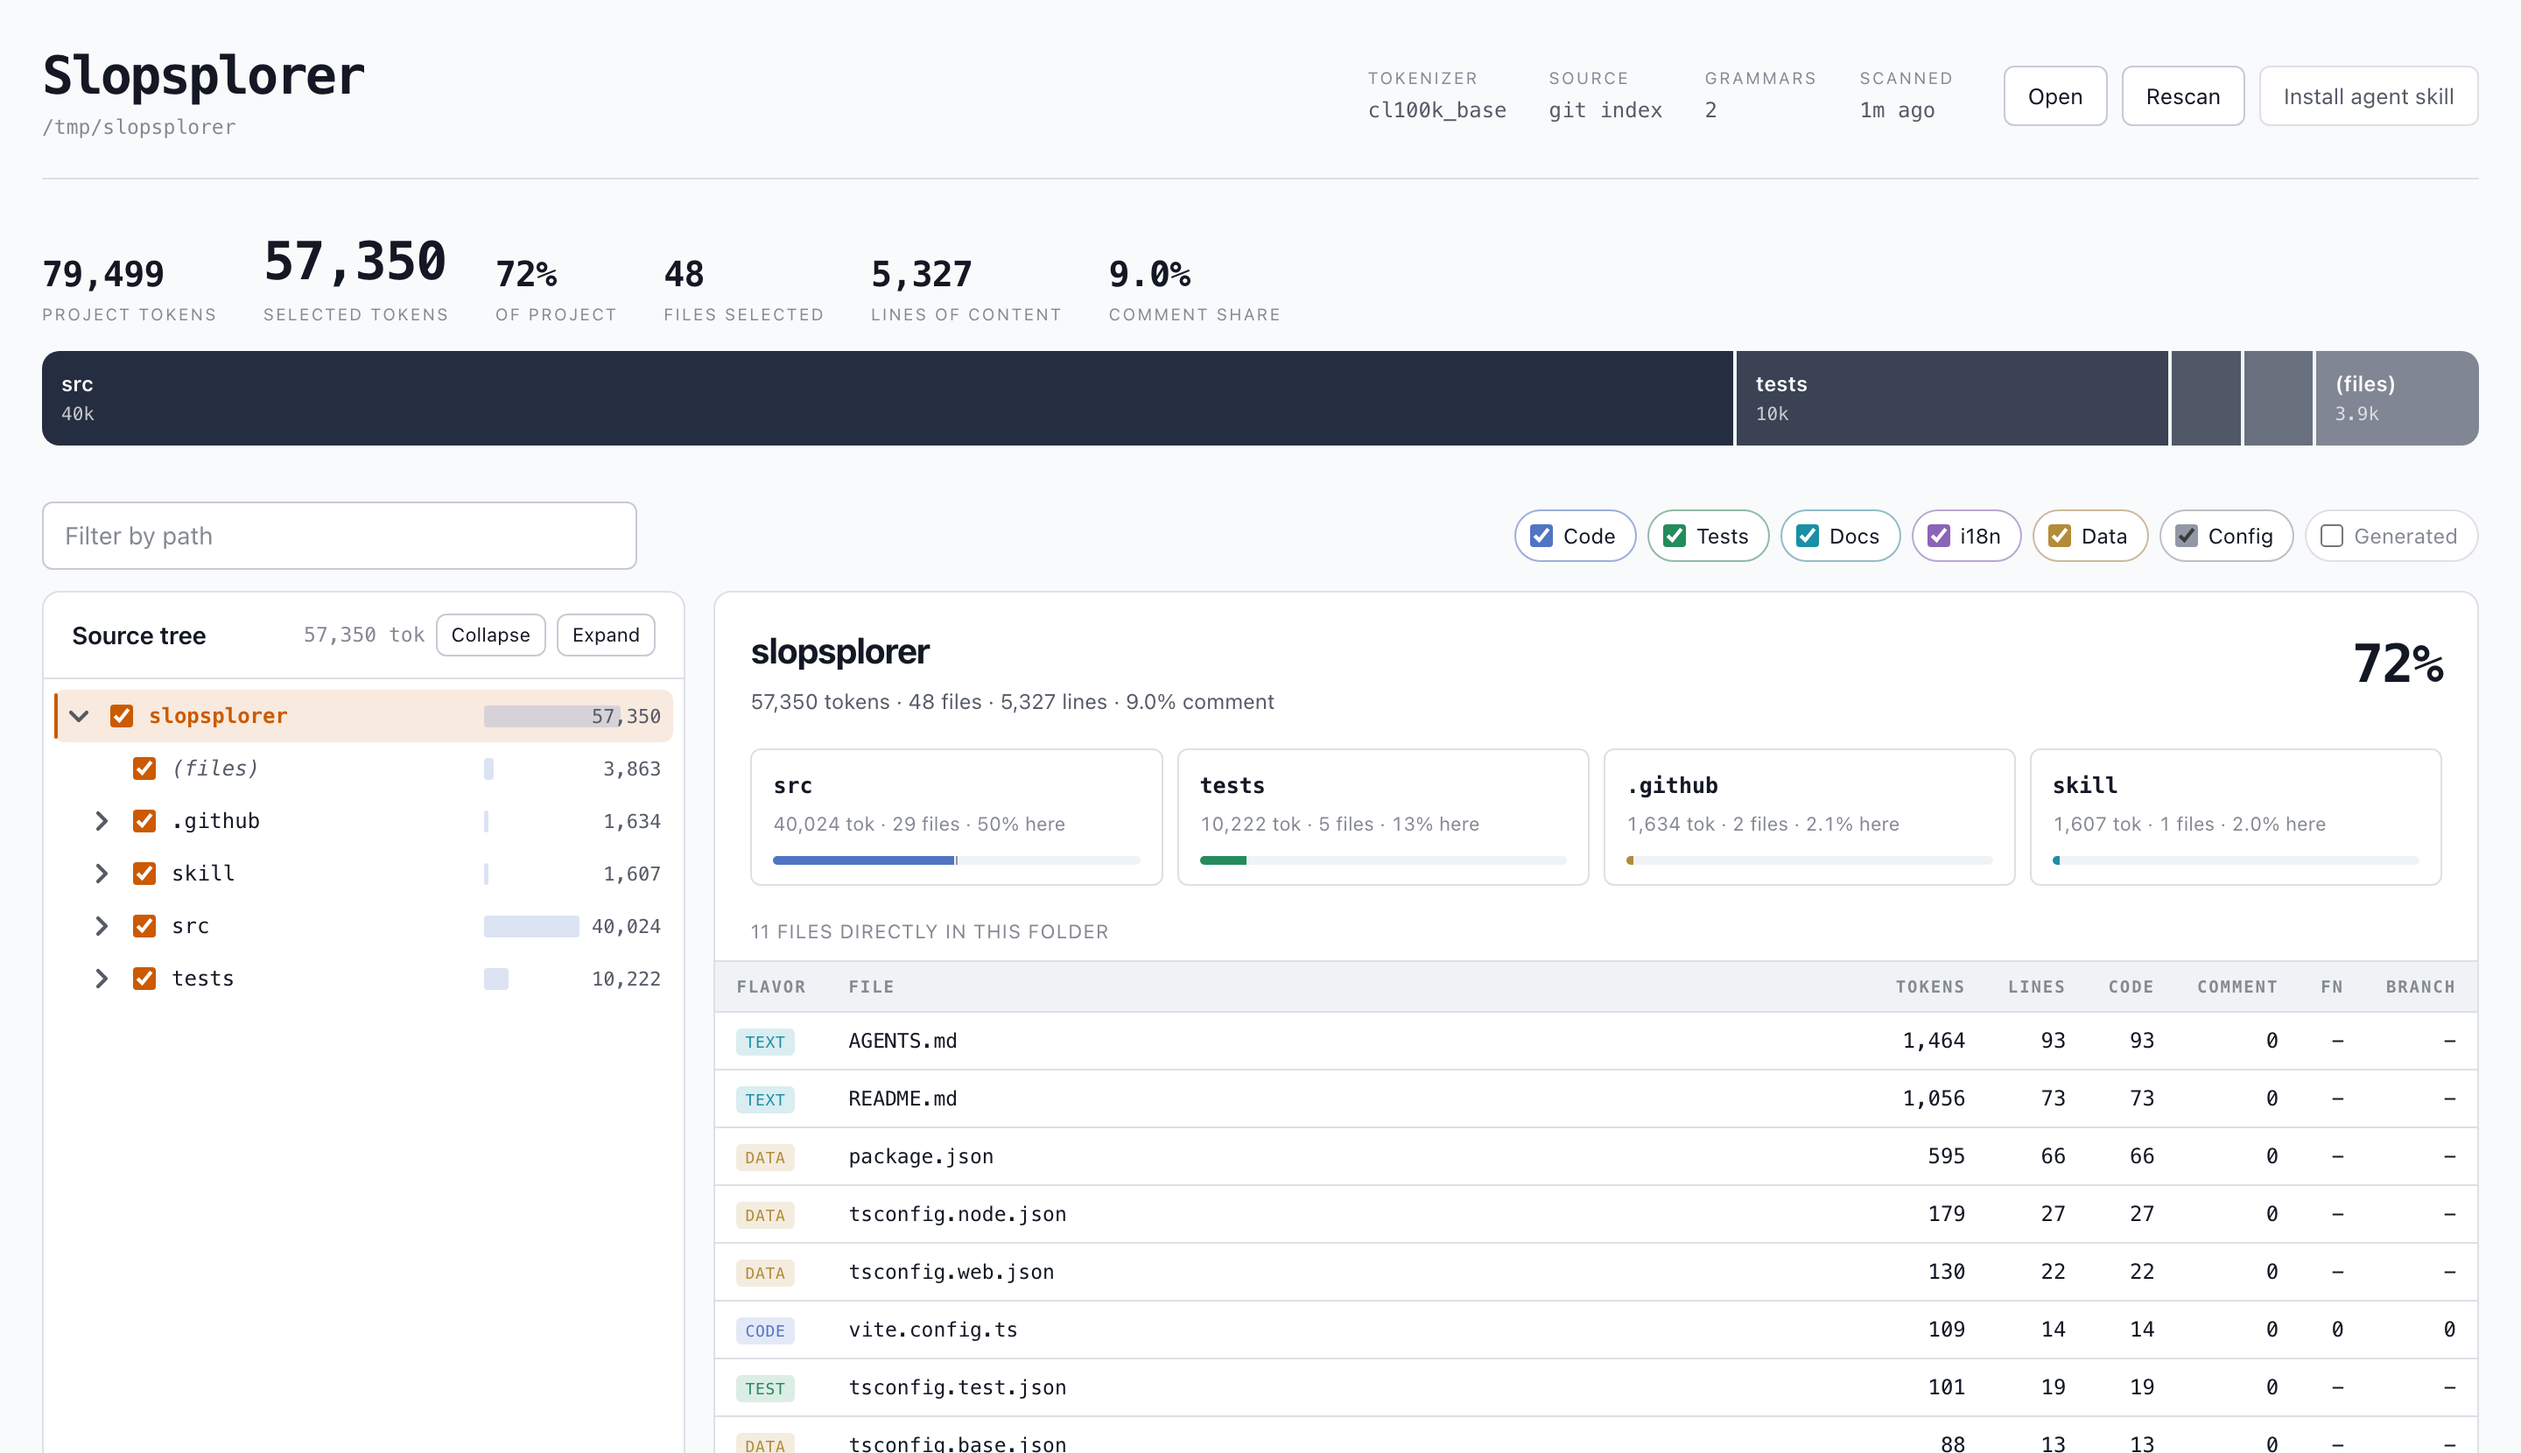
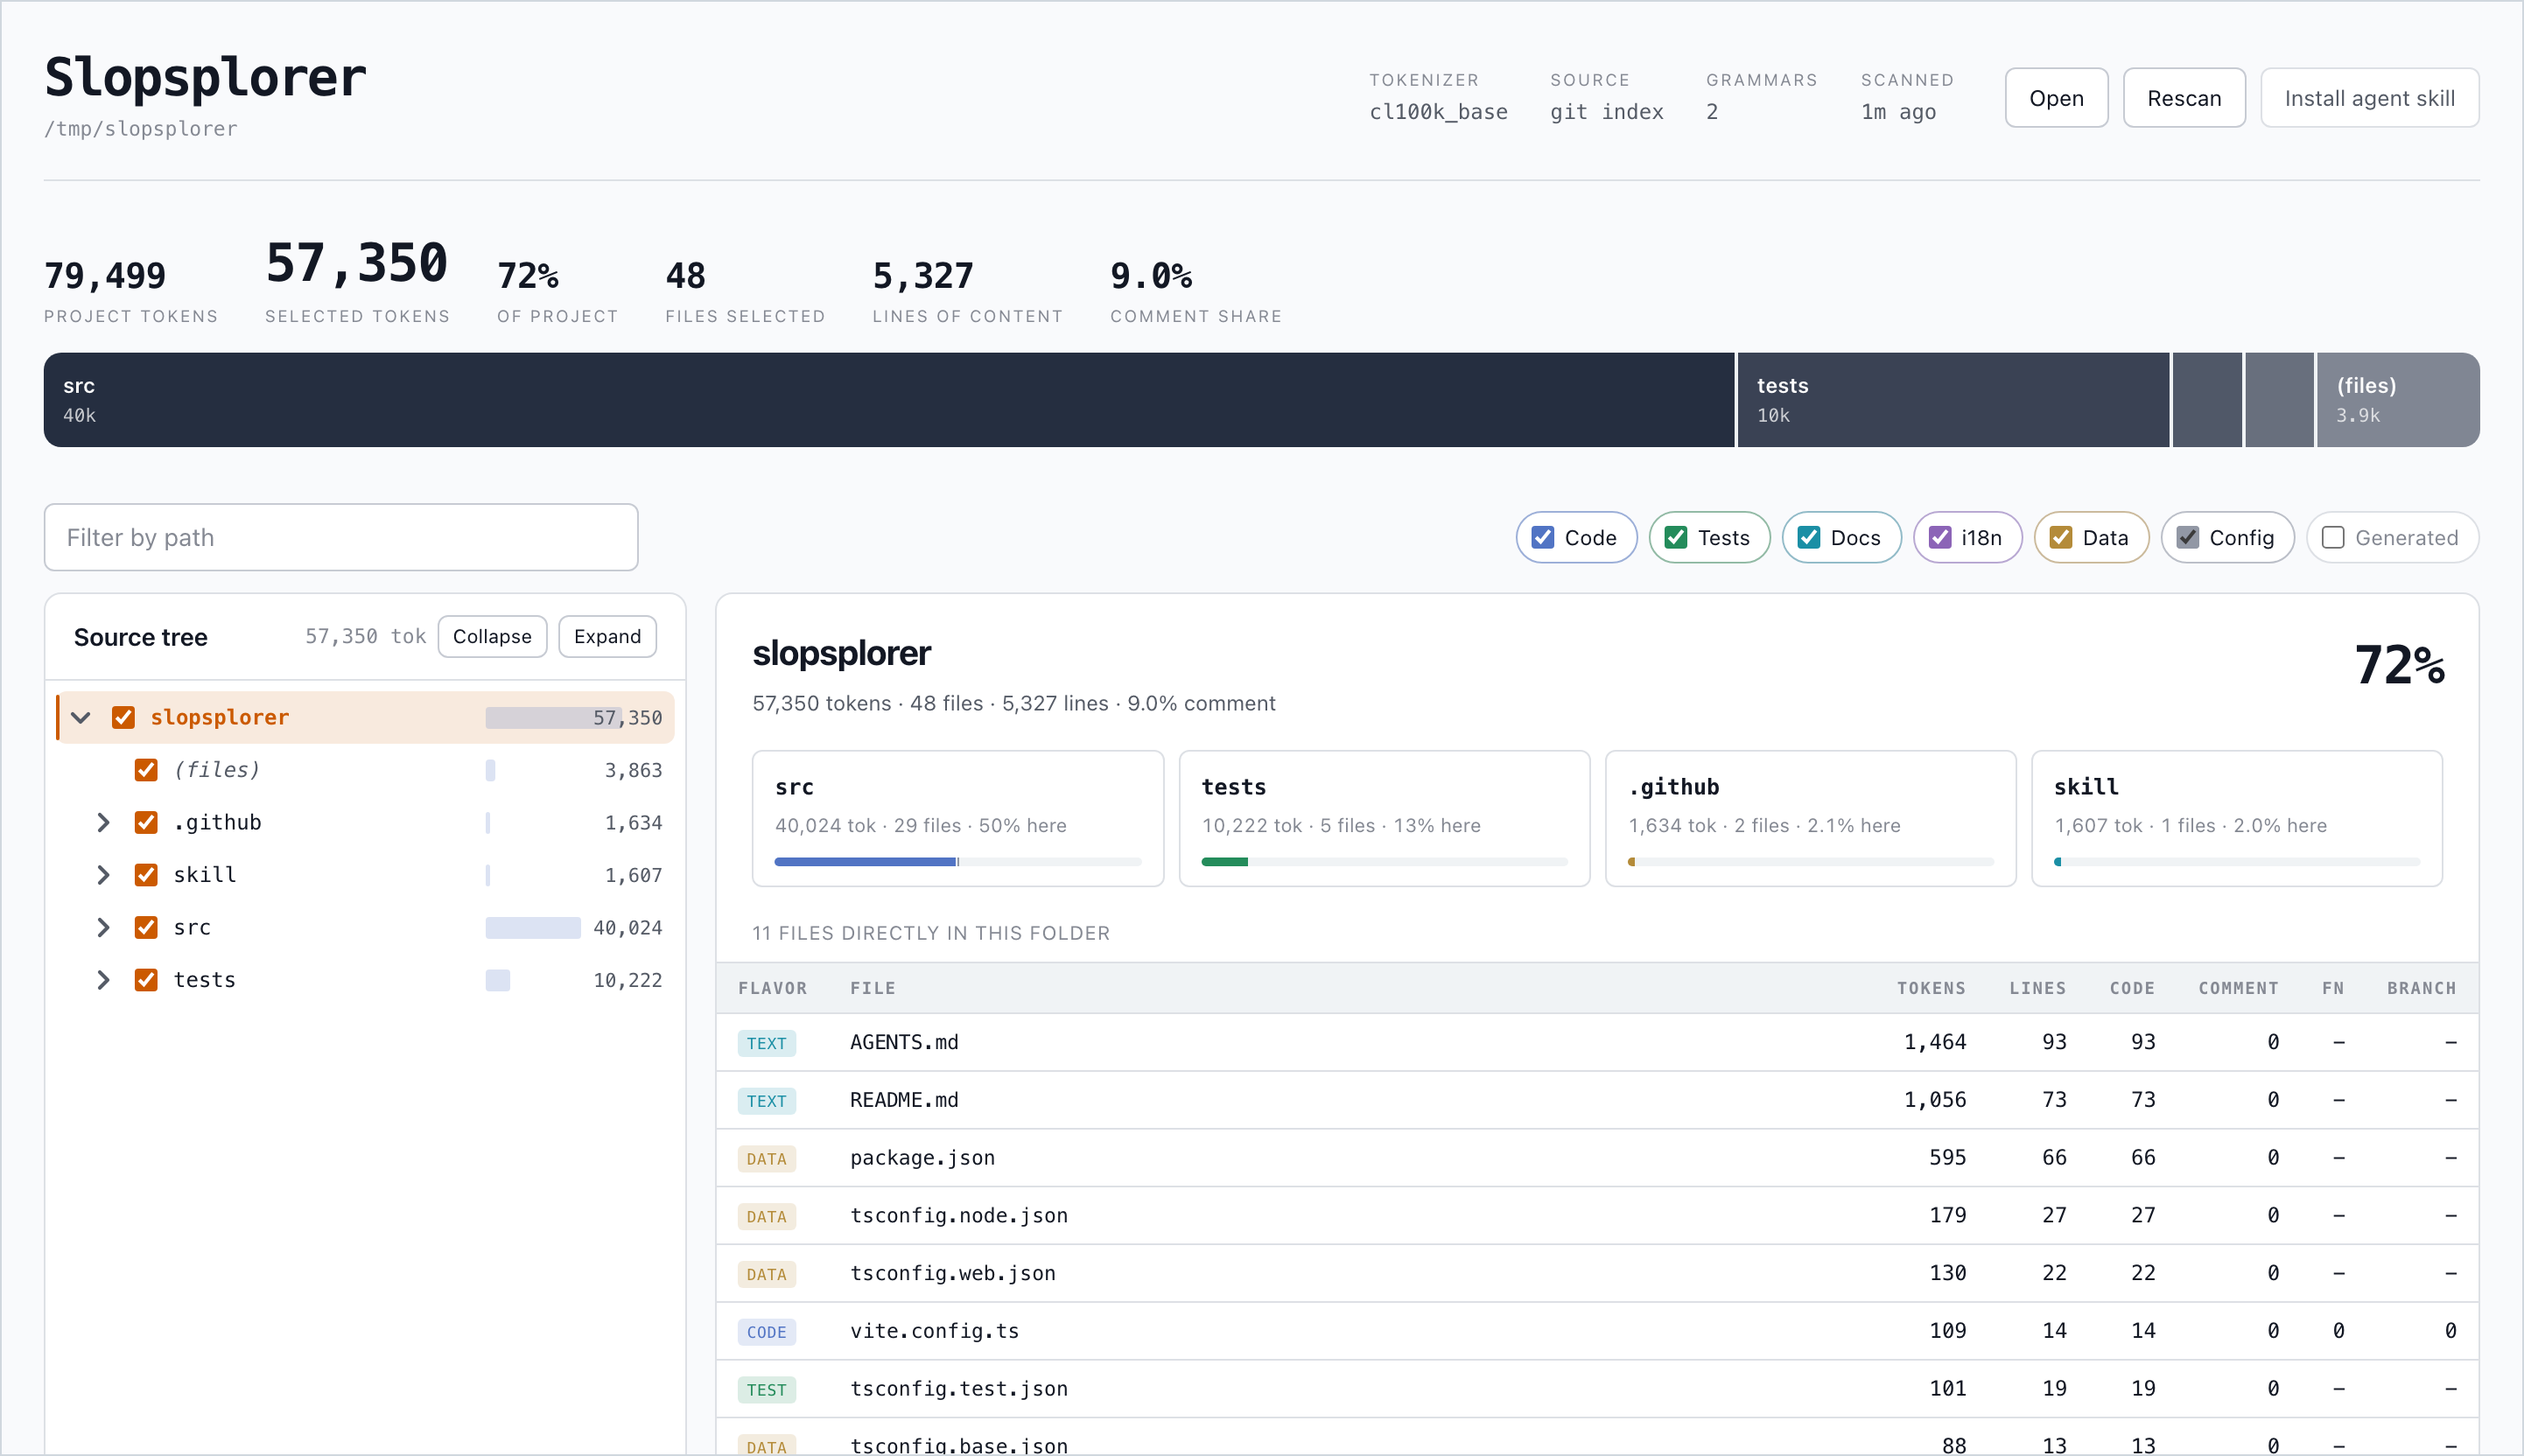
Say plainly that the skill opens a UI for the user
The old description read as though the skill would hand an agent the
measurements, so an agent would activate it and get a server it cannot see.
It now states that the command serves a page for a person, returns no
analysis to the caller, and should be started on the user's behalf. The
recipes are relabelled as steps to give the user.

Bake a hairline frame into the screenshot. GitHub and npm both strip style
attributes from README HTML, so a border cannot be applied at render time.

diff --git a/skill/SKILL.md b/skill/SKILL.md
@@ -1,13 +1,25 @@
 ---
 name: slopsplorer
-description: Map where a repository's token weight actually sits, so you can budget context, pick what to exclude from an agent's window, and spot bloated, comment-padded, or AI-generated bulk before planning a refactor or a review.
+description: Open a browser UI where the user explores where a repository's token weight sits - what fills a context budget, and where bloated, comment-padded, or generated bulk is concentrated. Slopsplorer serves a page for a person to read. It returns no analysis to you. Use it to start that UI for the user, not to obtain measurements yourself.
 ---
 
 # Slopsplorer
 
-Slopsplorer measures a source tree by tokenizer weight.
-It serves the result as a local, read-only browser UI.
-Use it when the question is "where is the mass?" rather than "is this code any good?".
+Slopsplorer measures a source tree by tokenizer weight and serves the result as a local browser UI.
+
+## What this skill does, and does not do
+
+The command starts a web server and keeps running.
+It prints a URL. It prints no measurements.
+
+You cannot see the page.
+Start the tool for the user, give them the URL, and let them explore it themselves.
+Do not run it to collect numbers for your own analysis, and do not report figures you have not been given.
+
+The rest of this page is reference material for two jobs:
+explain what a number in the UI means when the user asks, and tell the user where to look next.
+
+Suggest the tool when the user asks where the weight of a repository sits, rather than whether the code is any good.
 
 ## What it measures
 
@@ -47,8 +59,8 @@ A well-documented public API and a model-generated file that narrates every line
 Nothing is inferred from file content.
 `generated` detection is a check of path and name conventions, so it will miss generated files with ordinary names.
 
-Use these numbers to decide where to look.
-Do not quote them as a quality judgement.
+These numbers tell the user where to look.
+They are not a quality judgement, and neither you nor the user should quote them as one.
 
 ## Running it
 
@@ -57,7 +69,7 @@ npx slopsplorer /path/to/repo
 ```
 
 It prints a loopback URL and serves the UI there.
-It runs until you stop it.
+It runs until it is stopped, so start it in the background and hand the URL to the user.
 
 | Flag | Effect |
 | --- | --- |
@@ -79,9 +91,11 @@ Either way, ignored build output, dependencies, and caches stay out of the map, 
 - The percentage baseline is the whole scanned tree, measured before any filter. It does not move while you filter, so shares stay comparable between two views.
 - The ranked file list sorts by one metric. It reports the total number of matches before the display limit, so a truncated list still tells you how many files qualified.
 
-## Recipes
+## Recipes to give the user
 
-**Find what will use the context budget, before you plan a refactor.**
+Each recipe is a sequence for the person at the screen. Read it out, or summarise the step that fits their question.
+
+**Find what will use the context budget, before a refactor.**
 Scan the repository, leave every switch on, and read the top-level ribbon.
 Note the two or three folders that hold most of the weight.
 Open each one and check whether the weight is a few large files or a long tail.
